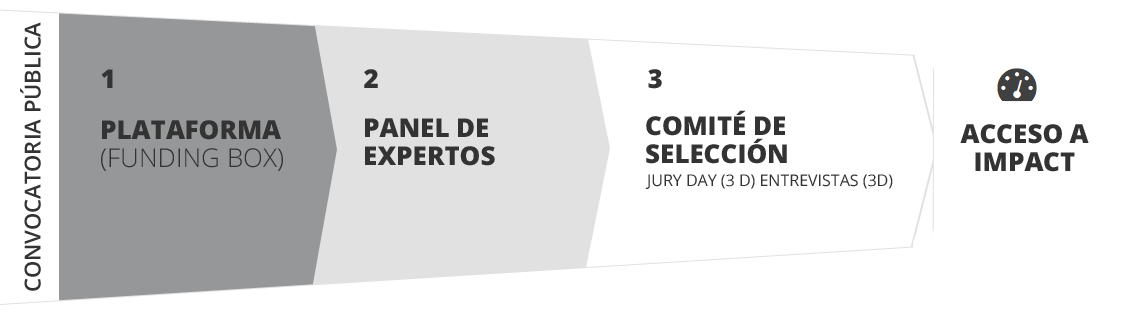
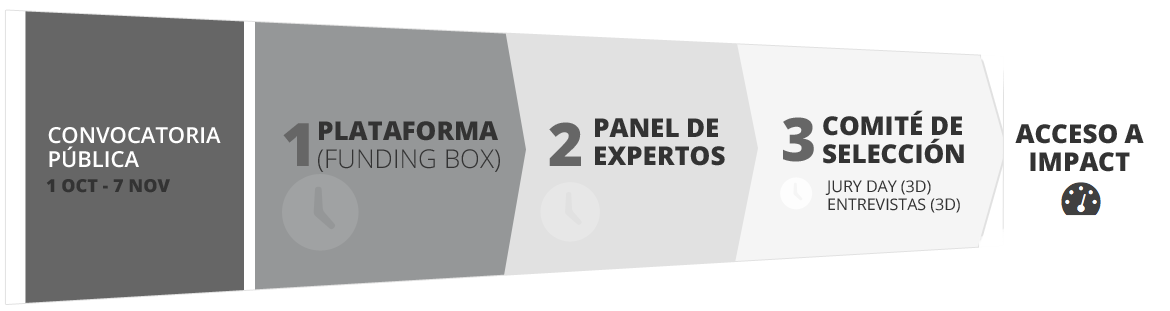
Ajustamos los gráficos

diff --git a/_includes/04.how-it-works.html b/_includes/04.how-it-works.html
@@ -7,7 +7,7 @@
 			<div class="col-xs-12">
 				<div class="tabs tabs-services tabs-circle-top tab-container">
 					<ul class="etabs text-center">
-						<li class="tab"><a href="#tab-requisitos"><div><i class="icon-ok"></i></div>Requisitos</a></li>
+						<li class="tab"><a href="#tab-requisitos"><div><i class="icon-ok"></i></div>Perfil</a></li>
 						<li class="tab"><a href="#tab-seleccion"><div><i class="icon-flow-tree"></i></div>Selección</a></li>
 						<li class="tab"><a href="#tab-financiacion"><div><i class="icon-money"></i></div>Financiación</a></li>
 						<li class="tab"><a href="#tab-formacion"><div><i class="icon-book-1"></i></div>Formación</a></li>
@@ -33,7 +33,7 @@
 							<div class="row inner-top-xs">
 								<div class="col-sm-6">
 									<p class="text-large text-center">
-										<strong>Todos los proyectos que puedan ubicarse entre:</strong>
+										<strong>Proyectos que estén en las siguientes fases:</strong>
 									</p>
 									<p class="text-center"><img src="/img/diapos/requisitos/grafica.png" class="img-responsive" alt="Gráfica ubicación de proyectos"></p>
 
@@ -125,7 +125,7 @@
 								<div class="col-sm-12">
 									{% include entradillas/mentoring.html %}
 
-									<p class="text-center"><a href="#talent-impact" class="scroll"><img src="/img/diapos/mentoring/grafico.png" alt="Se desarrollarán 3 fases de selección."  class="img-responsive" ></a></p>
+									<p class="text-center"><a href="#talent-impact" class="scroll"><img src="/img/diapos/mentoring/grafico.png" alt="Gráfica de mentoring"  class="img-responsive" ></a></p>
 								</div>
 							</div>
 						</div>
@@ -138,7 +138,7 @@
 
 								</div>
 								<div class="col-sm-5">
-									<p class="text-center"><img src="/img/diapos/inversores/grafico.gif" alt="Se desarrollarán 3 fases de selección."  class="img-responsive" ></p>
+									<p class="text-center"><img src="/img/diapos/inversores/grafica.png" alt="Inversores"  class="img-responsive" ></p>
 								</div>
 							</div>
 						</div>
@@ -152,7 +152,7 @@
 				<div class="panel-heading">
 					<h4 class="panel-title">
 						<a class="panel-toggle" data-toggle="collapse" data-parent="#accordion2" href="#acc-requisitos">
-							<span><i class="icon-ok"></i> Requisitos</span>
+							<span><i class="icon-ok"></i> Perfil</span>
 						</a>
 					</h4>
 				</div>

diff --git a/_includes/03.what-is-impact.html b/_includes/03.what-is-impact.html
@@ -45,8 +45,8 @@
 			<div class="row inner-bottom-xs">
 				<div class="col-md-10 col-md-offset-1">
 					<p class="text-normal">
-					ISDI, Boungiorno, Teknologiudvikling ApS y Seaya Ventures junto a profesionales referentes del ecosistema digital europeo forman equipo para lanzar IMPACT. <br>
-					IMPACT (Internet Mobile Projects Accelerator) es uno de los 16 consorcios seleccionados por la Comisión Europea en el marco del Seventh Framework Programme formado por:
+					IMPACT (Internet Mobile Projects Accelerator) es uno de los 16 consorcios europeos seleccionados por la Comisión Europea en el marco del Seventh Framework Programme. <br>
+					Está constituido por: ISDI, Boungiorno, Teknologiudvikling ApS, Seaya Ventures y una red de emprendores y profesionales referentes del ecosistema digital europeo.
 					</p>
 				</div>
 			</div>
